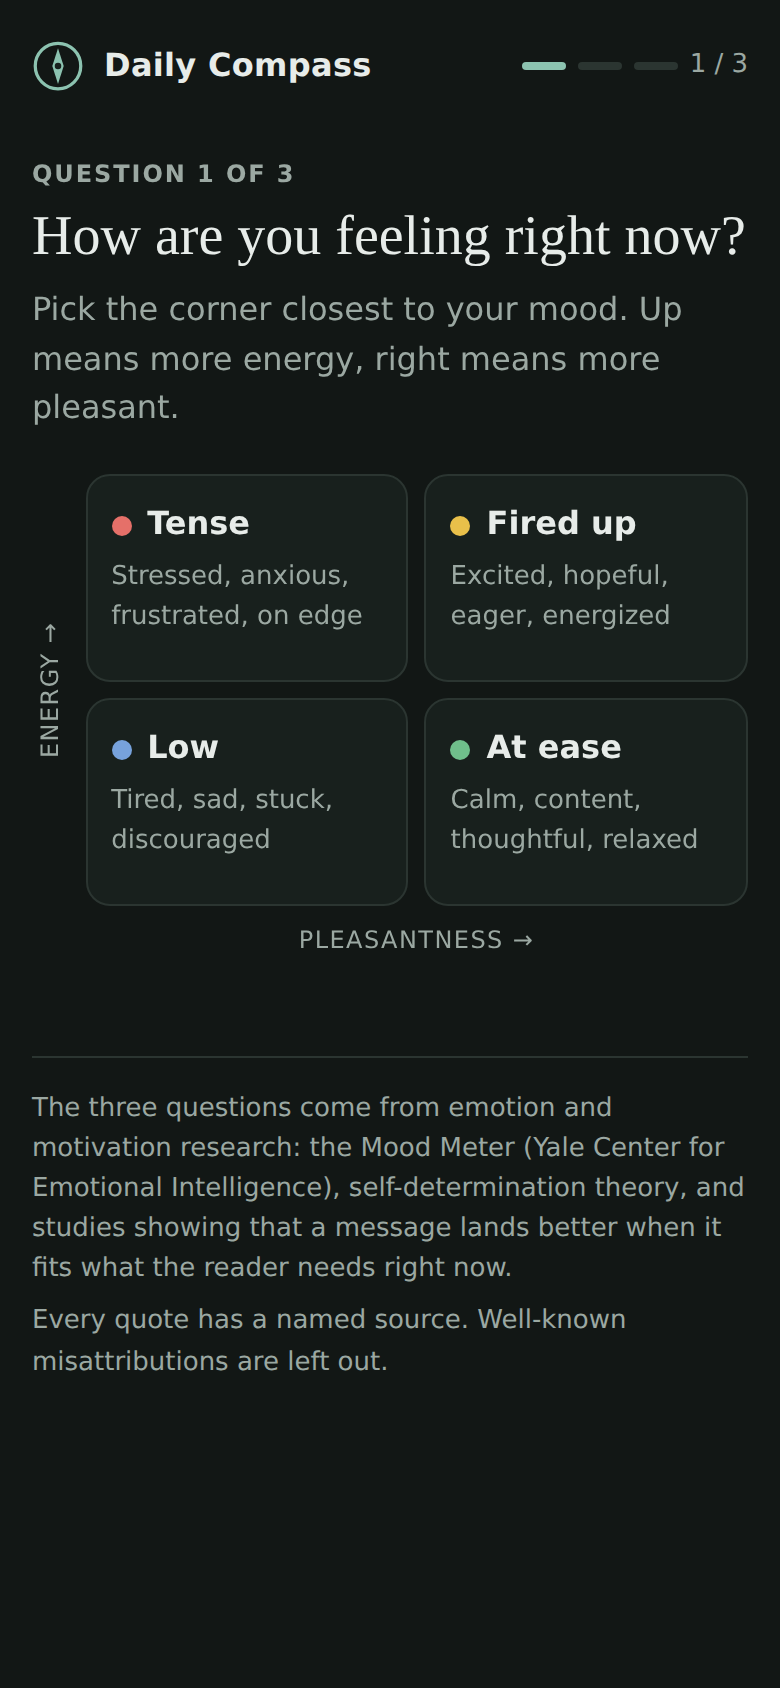
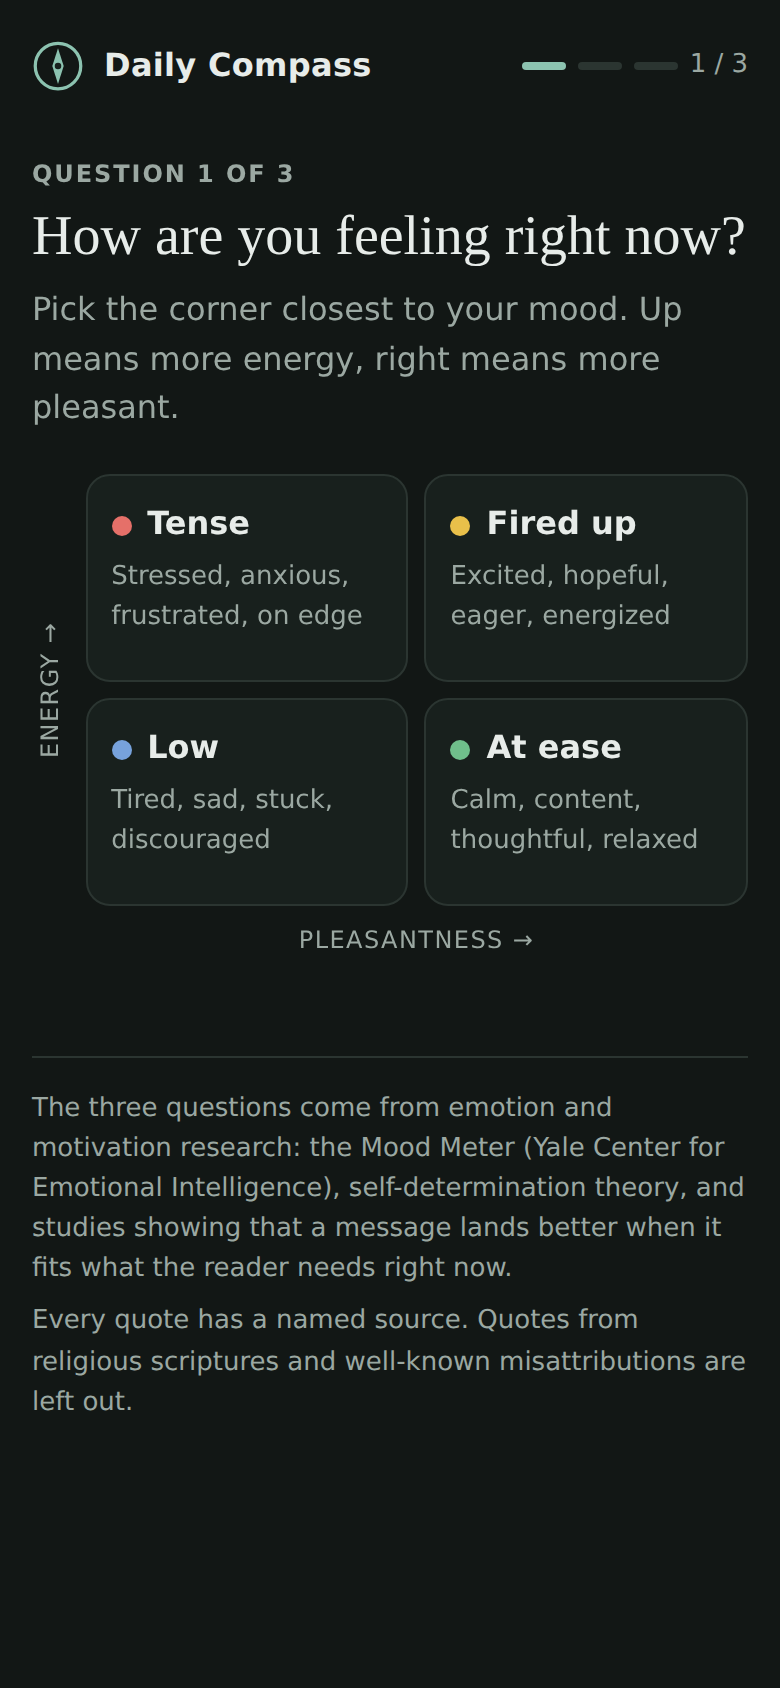
Daily Compass: phone-frame preview on wide screens; drop scripture quotes
- On screens 640px+ wide the app renders inside a 390x844 phone frame with
  a live status bar; on phones it still fills the screen.
- Remove quotes from religious scriptures and devotional works (Bhagavad
  Gita, Tao Te Ching, Katha Upanishad, Strength to Love, Book of Hours) and
  add six secular replacements, keeping every mood/topic/need combination
  covered.
- Refresh mobile screenshots and add framed-preview screenshots.

Claude-Session: https://claude.ai/code/session_01Ms5qba7Kw5KonEYGK72kCu

Changed region(s): [[0.0308, 0.8009, 0.6154, 0.8318], [0.6154, 0.7701, 0.9538, 0.8318]]

diff --git a/quote-app/quotes.js b/quote-app/quotes.js
@@ -10,14 +10,14 @@
 // Only quotes with a traceable source are included. Popular lines that are
 // misattributed (e.g. "Be the change you wish to see" to Gandhi, "It always
 // seems impossible until it's done" to Mandela) are deliberately left out.
+// No quotes from religious scriptures or devotional works (e.g. the
+// Bhagavad Gita, Tao Te Ching, Upanishads, Bible, Quran, sermon collections).
 // Translated texts name the work; wording follows common English editions.
 window.QUOTES = [
   // ---- push: a nudge to act --------------------------------------------
-  { id: "laozi-step", t: "A journey of a thousand miles begins with a single step.", by: "Laozi", src: "Tao Te Ching, ch. 64", m: ["y", "b", "g"], a: ["work", "self"], n: ["push"] },
   { id: "seneca-postpone", t: "While we are postponing, life speeds by.", by: "Seneca", src: "Letters to Lucilius, 1", m: ["y", "g", "b"], a: ["work", "self"], n: ["push"] },
   { id: "eroosevelt-cannot", t: "You must do the thing you think you cannot do.", by: "Eleanor Roosevelt", src: "You Learn by Living (1960)", m: ["r", "b", "y"], a: ["work", "self", "setback"], n: ["push", "courage"] },
   { id: "troosevelt-whatyouhave", t: "Do what you can, with what you have, where you are.", by: "Theodore Roosevelt, quoting Squire Bill Widener", src: "Theodore Roosevelt: An Autobiography (1913)", m: ["b", "r"], a: ["work", "setback", "self"], n: ["push"] },
-  { id: "vivekananda-arise", t: "Arise, awake, and stop not till the goal is reached.", by: "Swami Vivekananda", src: "after the Katha Upanishad 1.3.14", m: ["y", "b"], a: ["work", "self"], n: ["push"] },
   { id: "jobs-hungry", t: "Stay hungry. Stay foolish.", by: "Steve Jobs, quoting the Whole Earth Catalog", src: "Stanford commencement address (2005)", m: ["y", "g"], a: ["work", "self"], n: ["push"] },
   { id: "jobs-time", t: "Your time is limited, so don't waste it living someone else's life.", by: "Steve Jobs", src: "Stanford commencement address (2005)", m: ["y", "g", "r"], a: ["self", "work"], n: ["push", "wisdom"] },
   { id: "gretzky-shots", t: "You miss 100% of the shots you don't take.", by: "Wayne Gretzky", src: "Hockey News interview (1983)", m: ["y", "r"], a: ["work", "people"], n: ["push", "courage"] },
@@ -37,11 +37,9 @@ window.QUOTES = [
   { id: "tnh-clouds", t: "Feelings come and go like clouds in a windy sky. Conscious breathing is my anchor.", by: "Thich Nhat Hanh", src: "Stepping into Freedom (1997)", m: ["r", "b"], a: ["self", "people", "setback"], n: ["calm"] },
   { id: "chodron-sky", t: "You are the sky. Everything else is just the weather.", by: "Pema Chödrön", src: "attributed; widely quoted from her teachings", m: ["r", "b"], a: ["self", "setback"], n: ["calm"] },
   { id: "tolstoy-patience", t: "The two most powerful warriors are patience and time.", by: "Leo Tolstoy", src: "War and Peace (1869)", m: ["r", "g", "b"], a: ["work", "setback"], n: ["calm", "wisdom"] },
-  { id: "rilke-final", t: "Let everything happen to you: beauty and terror. Just keep going. No feeling is final.", by: "Rainer Maria Rilke", src: "Book of Hours, I.59 (trans. Barrows & Macy)", m: ["b", "r"], a: ["setback", "self"], n: ["calm", "courage"] },
   { id: "dillard-days", t: "How we spend our days is, of course, how we spend our lives.", by: "Annie Dillard", src: "The Writing Life (1989)", m: ["g", "y"], a: ["self", "work"], n: ["calm", "wisdom"] },
   { id: "watts-dance", t: "The only way to make sense out of change is to plunge into it, move with it, and join the dance.", by: "Alan Watts", src: "The Wisdom of Insecurity (1951)", m: ["r", "g", "y"], a: ["setback", "self"], n: ["calm", "courage"] },
   { id: "lee-water", t: "Empty your mind, be formless, shapeless, like water. Be water, my friend.", by: "Bruce Lee", src: "Longstreet, \"The Way of the Intercepting Fist\" (1971)", m: ["r", "g"], a: ["setback", "work", "self"], n: ["calm"] },
-  { id: "gita-fruits", t: "You have a right to your actions, but never to the fruits of your actions.", by: "Bhagavad Gita", src: "2.47", m: ["r", "b"], a: ["work", "setback"], n: ["calm", "wisdom"] },
   { id: "saunders-plans", t: "Life is what happens to us while we are making other plans.", by: "Allen Saunders", src: "Reader's Digest (1957)", m: ["g", "r"], a: ["setback", "self"], n: ["calm", "wisdom"] },
   { id: "lorde-care", t: "Caring for myself is not self-indulgence, it is self-preservation, and that is an act of political warfare.", by: "Audre Lorde", src: "A Burst of Light (1988)", m: ["b", "r"], a: ["self", "work"], n: ["calm", "courage"] },
   { id: "rogers-like", t: "There's no person in the whole world like you, and I like you just the way you are.", by: "Fred Rogers", src: "Mister Rogers' Neighborhood", m: ["b", "g"], a: ["self", "people"], n: ["calm"] },
@@ -70,7 +68,6 @@ window.QUOTES = [
   { id: "frankl-change", t: "When we are no longer able to change a situation, we are challenged to change ourselves.", by: "Viktor Frankl", src: "Man's Search for Meaning (1946)", m: ["b", "r"], a: ["setback", "people"], n: ["wisdom"] },
   { id: "aurelius-obstacle", t: "The impediment to action advances action. What stands in the way becomes the way.", by: "Marcus Aurelius", src: "Meditations, 5.20", m: ["r", "b", "y"], a: ["setback", "work"], n: ["wisdom", "courage"] },
   { id: "socrates-examined", t: "The unexamined life is not worth living.", by: "Socrates", src: "Plato, Apology 38a", m: ["g"], a: ["self"], n: ["wisdom"] },
-  { id: "laozi-know", t: "Knowing others is intelligence; knowing yourself is true wisdom.", by: "Laozi", src: "Tao Te Ching, ch. 33", m: ["g", "r"], a: ["self", "people"], n: ["wisdom"] },
   { id: "rilke-questions", t: "Be patient toward all that is unsolved in your heart and try to love the questions themselves.", by: "Rainer Maria Rilke", src: "Letters to a Young Poet (1903)", m: ["g", "b"], a: ["self", "people"], n: ["wisdom", "calm"] },
   { id: "gibran-shell", t: "Your pain is the breaking of the shell that encloses your understanding.", by: "Kahlil Gibran", src: "The Prophet (1923)", m: ["b"], a: ["setback", "people"], n: ["wisdom"] },
   { id: "emerson-trust", t: "Trust thyself: every heart vibrates to that iron string.", by: "Ralph Waldo Emerson", src: "\"Self-Reliance\" (1841)", m: ["g", "y", "r"], a: ["self", "work"], n: ["wisdom", "courage"] },
@@ -81,11 +78,17 @@ window.QUOTES = [
   { id: "epictetus-master", t: "No man is free who is not master of himself.", by: "Epictetus", src: "Fragments", m: ["r", "g"], a: ["self"], n: ["wisdom"] },
 
   // ---- people: connection ----------------------------------------------
-  { id: "mlk-light", t: "Darkness cannot drive out darkness; only light can do that. Hate cannot drive out hate; only love can do that.", by: "Martin Luther King Jr.", src: "Strength to Love (1963)", m: ["r"], a: ["people"], n: ["calm", "wisdom"] },
   { id: "keller-together", t: "Alone we can do so little; together we can do so much.", by: "Helen Keller", src: "quoted in Joseph Lash, Helen and Teacher (1980)", m: ["y", "g", "b"], a: ["people", "work"], n: ["push", "wisdom"] },
   { id: "brown-connection", t: "Connection is why we're here; it is what gives purpose and meaning to our lives.", by: "Brené Brown", src: "TED talk, \"The power of vulnerability\" (2010)", m: ["g", "b"], a: ["people"], n: ["wisdom", "calm"] },
   { id: "angelou-rainbow", t: "Try to be a rainbow in someone's cloud.", by: "Maya Angelou", src: "Letter to My Daughter (2008)", m: ["y", "g"], a: ["people"], n: ["push"] },
   { id: "aesop-kindness", t: "No act of kindness, no matter how small, is ever wasted.", by: "Aesop", src: "\"The Lion and the Mouse\"", m: ["y", "g", "b"], a: ["people"], n: ["push", "calm"] },
   { id: "dalai-compassion", t: "If you want others to be happy, practice compassion. If you want to be happy, practice compassion.", by: "The Dalai Lama", src: "The Art of Happiness (1998)", m: ["g", "r", "y"], a: ["people"], n: ["wisdom", "calm"] },
-  { id: "brown-vulnerability", t: "Vulnerability is the birthplace of innovation, creativity and change.", by: "Brené Brown", src: "TED talk, \"Listening to shame\" (2012)", m: ["r", "y", "g"], a: ["people", "work"], n: ["courage"] }
+  { id: "brown-vulnerability", t: "Vulnerability is the birthplace of innovation, creativity and change.", by: "Brené Brown", src: "TED talk, \"Listening to shame\" (2012)", m: ["r", "y", "g"], a: ["people", "work"], n: ["courage"] },
+  // ---- added replacements (secular sources) ----------------------------
+  { id: "mandela-courage", t: "I learned that courage was not the absence of fear, but the triumph over it.", by: "Nelson Mandela", src: "Long Walk to Freedom (1994)", m: ["r", "b"], a: ["setback", "work", "self"], n: ["courage"] },
+  { id: "leguin-journey", t: "It is good to have an end to journey toward; but it is the journey that matters, in the end.", by: "Ursula K. Le Guin", src: "The Left Hand of Darkness (1969)", m: ["g", "y", "b"], a: ["work", "self"], n: ["wisdom", "calm"] },
+  { id: "plath-iam", t: "I took a deep breath and listened to the old brag of my heart. I am, I am, I am.", by: "Sylvia Plath", src: "The Bell Jar (1963)", m: ["b", "r"], a: ["self", "setback"], n: ["courage"] },
+  { id: "morrison-write", t: "If there's a book that you want to read, but it hasn't been written yet, then you must write it.", by: "Toni Morrison", src: "speech to the Ohio Arts Council (1981)", m: ["y", "g"], a: ["work", "self"], n: ["push"] },
+  { id: "nemo-swim", t: "Just keep swimming.", by: "Dory", src: "Finding Nemo (Pixar, 2003)", m: ["b", "r", "y"], a: ["setback", "work"], n: ["push", "courage"] },
+  { id: "tolkien-door", t: "It's a dangerous business, Frodo, going out your door. You step onto the road, and if you don't keep your feet, there's no knowing where you might be swept off to.", by: "J.R.R. Tolkien", src: "The Fellowship of the Ring (1954)", m: ["y", "g"], a: ["self", "work"], n: ["push", "courage"] }
 ];

diff --git a/quote-app/index.html b/quote-app/index.html
@@ -23,6 +23,9 @@
   --mood-blue: #3f6fae;
   --mood-green: #3f8f5c;
   --tint: 12%;
+  --desk: #e2e6e0;
+  --frame: #1b201e;
+  --frame-rim: #3b4340;
   --font-display: "Newsreader", Georgia, "Times New Roman", serif;
   --font-ui: "Figtree", system-ui, -apple-system, "Segoe UI", sans-serif;
 }
@@ -31,14 +34,14 @@
     --bg: #121715; --surface: #18201d; --fg: #e7ece9; --muted: #9ba8a2; --line: #2b3531;
     --accent: #8cc3b0; --accent-ink: #0f1513;
     --mood-red: #e57069; --mood-yellow: #e9c04a; --mood-blue: #77a2dc; --mood-green: #6fbf8b;
-    --tint: 18%; color-scheme: dark;
+    --tint: 18%; --desk: #0a0d0c; --frame: #2a312e; --frame-rim: #4a5450; color-scheme: dark;
   }
 }
 :root[data-theme="dark"] {
   --bg: #121715; --surface: #18201d; --fg: #e7ece9; --muted: #9ba8a2; --line: #2b3531;
   --accent: #8cc3b0; --accent-ink: #0f1513;
   --mood-red: #e57069; --mood-yellow: #e9c04a; --mood-blue: #77a2dc; --mood-green: #6fbf8b;
-  --tint: 18%; color-scheme: dark;
+  --tint: 18%; --desk: #0a0d0c; --frame: #2a312e; --frame-rim: #4a5450; color-scheme: dark;
 }
 
 * { box-sizing: border-box; }
@@ -52,6 +55,44 @@ body {
   padding-block: 0 48px;
 }
 .wrap { max-width: 40rem; margin: 0 auto; display: grid; gap: 28px; }
+
+/* On a phone the app fills the screen. On a wider screen (desktop, the
+   preview panel) it is shown inside a phone frame at 390 x 844. */
+.statusbar, .frame-note { display: none; }
+@media (min-width: 640px) and (min-height: 600px) {
+  body {
+    background: var(--desk); padding-block: 24px; display: grid; justify-items: center;
+    align-content: center; gap: 14px; min-height: 100vh;
+  }
+  .device {
+    position: relative; width: 390px; max-width: 100%; height: min(844px, calc(100vh - 80px));
+    padding: 11px; border-radius: 56px; background: var(--frame);
+    box-shadow: inset 0 0 0 2px var(--frame-rim), 0 30px 60px -24px rgb(0 0 0 / 0.45);
+  }
+  .device::before {
+    content: ""; position: absolute; top: 22px; left: 50%; transform: translateX(-50%);
+    width: 112px; height: 32px; border-radius: 18px; background: #000; z-index: 2;
+  }
+  .screen {
+    height: 100%; overflow-y: auto; border-radius: 45px; background: var(--bg);
+    padding-inline: 16px; padding-block: 0 28px; scrollbar-width: none;
+  }
+  .screen::-webkit-scrollbar { display: none; }
+  .statusbar {
+    display: flex; justify-content: space-between; align-items: center;
+    padding: 17px 14px 0 18px; height: 44px; font-size: 0.875rem; font-weight: 600;
+    font-variant-numeric: tabular-nums;
+  }
+  .statusbar svg { height: 12px; width: auto; fill: currentColor; }
+  .statusbar .icons { display: flex; gap: 6px; align-items: center; }
+  header.top { padding-top: 8px; }
+  /* size type and padding to the 390px screen, not the desktop window */
+  .screen h1 { font-size: 1.85rem; }
+  .screen .quote-card { padding: 24px; }
+  .screen .qtext { font-size: 1.55rem; }
+  .screen .actions .btn { padding: 11px 14px; font-size: 0.875rem; }
+  .frame-note { display: block; font-size: 0.8125rem; color: var(--muted); margin: 0; text-align: center; }
+}
 
 header.top {
   display: flex; align-items: center; justify-content: space-between; gap: 12px;
@@ -146,7 +187,8 @@ blockquote { margin: 0; }
   border: 1px solid var(--line); border-radius: 12px; padding: 14px 16px; font-size: 0.9rem; color: var(--muted);
 }
 .care strong { color: var(--fg); }
-.toast { font-size: 0.875rem; color: var(--accent); min-height: 1.2em; margin: 0; }
+.toast { font-size: 0.875rem; color: var(--accent); margin: 0; }
+.toast:empty { display: none; }
 
 footer { font-size: 0.8125rem; color: var(--muted); border-top: 1px solid var(--line); padding-top: 16px; }
 footer p { margin: 0 0 6px; }
@@ -162,6 +204,11 @@ footer p { margin: 0 0 6px; }
 </style>
 </head>
 <body>
+<div class="device"><div class="screen">
+<div class="statusbar" aria-hidden="true"><span id="clock">9:41</span><span class="icons">
+  <svg viewBox="0 0 18 12"><rect x="0" y="8" width="3" height="4" rx="1"/><rect x="5" y="5" width="3" height="7" rx="1"/><rect x="10" y="2.5" width="3" height="9.5" rx="1"/><rect x="15" y="0" width="3" height="12" rx="1"/></svg>
+  <svg viewBox="0 0 27 12"><rect x="0.5" y="0.5" width="22" height="11" rx="3" fill="none" stroke="currentColor" opacity="0.5"/><rect x="2" y="2" width="16" height="8" rx="1.5"/><rect x="24" y="4" width="2" height="4" rx="1" opacity="0.5"/></svg>
+</span></div>
 <div class="wrap">
   <header class="top">
     <div class="brand">
@@ -179,9 +226,11 @@ footer p { margin: 0 0 6px; }
 
   <footer>
     <p>The three questions come from emotion and motivation research: the Mood Meter (Yale Center for Emotional Intelligence), self-determination theory, and studies showing that a message lands better when it fits what the reader needs right now.</p>
-    <p>Every quote has a named source. Well-known misattributions are left out.</p>
+    <p>Every quote has a named source. Quotes from religious scriptures and well-known misattributions are left out.</p>
   </footer>
 </div>
+</div></div>
+<p class="frame-note">Phone preview, 390 &times; 844. On a phone the app fills the screen.</p>
 
 <script src="quotes.js"></script>
 <script>
@@ -364,6 +413,10 @@ footer p { margin: 0 0 6px; }
       try { navigator.clipboard.writeText(text).then(done, fallback); } catch { fallback(); }
     });
   }
+
+  const clock = document.getElementById("clock");
+  const tick = () => { const d = new Date(); clock.textContent = `${d.getHours() % 12 || 12}:${String(d.getMinutes()).padStart(2, "0")}`; };
+  tick(); setInterval(tick, 30000);
 
   renderQuestion();
 })();

diff --git a/quote-app/README.md b/quote-app/README.md
@@ -1,6 +1,6 @@
 # Daily Compass
 
-A small web app that asks three quick questions when it opens and then shows the quote that best fits the answers. Open `index.html` in a browser. There's no build step and no server, and it works offline apart from the web fonts.
+A small web app that asks three quick questions when it opens and then shows the quote that best fits the answers. Open `index.html` in a browser. On a phone it fills the screen; on a wider screen (a desktop or a preview panel) it is shown inside a 390 × 844 phone frame. There's no build step and no server, and it works offline apart from the web fonts.
 
 ## The three questions and why they were chosen
 
@@ -18,7 +18,7 @@ Every quote in `quotes.js` is tagged with the moods, life areas and needs it sui
 If someone reports feeling low and is dealing with a setback or asks for courage, the result also shows helpline numbers (Tele-MANAS 14416 in India, 988 in the US, findahelpline.com elsewhere).
 
 ## Quotes
-67 quotes, each with its author and source. Popular lines that are commonly misattributed (for example "Be the change you wish to see in the world" credited to Gandhi) are excluded. To add one, append an object to `quotes.js` with `m`, `a` and `n` tags.
+67 quotes, each with its author and source, all from secular works: books, poems, letters, speeches, interviews and films. Nothing is taken from religious scriptures or devotional texts (for example the Bhagavad Gita, Tao Te Ching, Upanishads, Bible or Quran). Popular lines that are commonly misattributed (for example "Be the change you wish to see in the world" credited to Gandhi) are excluded. To add one, append an object to `quotes.js` with `m`, `a` and `n` tags.
 
 ## Sources
 - Yale Center for Emotional Intelligence, RULER: [The Mood Meter](https://www.rulerapproach.org/wp-content/uploads/2020/07/MoodMeter_FC.pdf)
